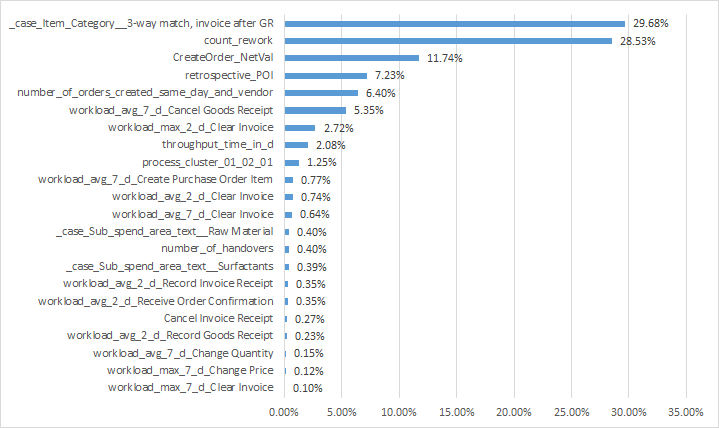
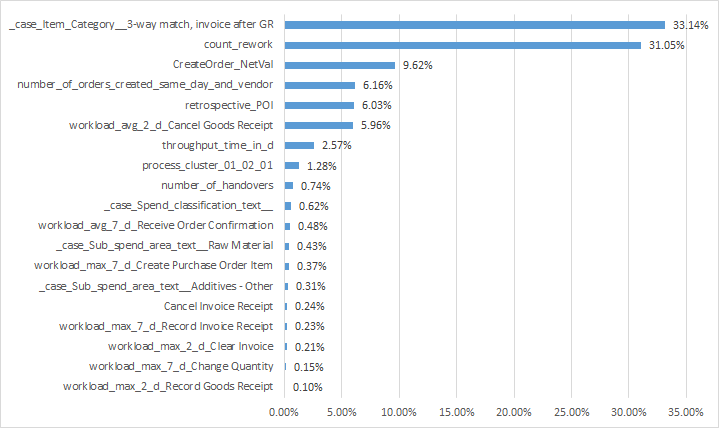
Decision Tree update

Changed region(s): [[0.0, 0.0304, 0.9791, 0.9416]]

diff --git a/Python/Predictive_Process_Mining/event_level_additional_dimensions.py b/Python/Predictive_Process_Mining/event_level_additional_dimensions.py
@@ -50,7 +50,7 @@ X_Categorical = X.filter(x_categorical_columns)
 
 # Switch the commenting in the next to lines to include additional compliance values or not
 #x_numerical_columns = ['resource_count_case','is_material_missing','event_retrospective_POI','rework_count',,'CreateOrder_NetVal']
-x_numerical_columns = ['is_material_missing','event_retrospective_POI','rework_count','CreateOrder_NetVal','user_count','sod_create_poi_and_gr','sod_create_poi_and_ir', 'throughput']
+x_numerical_columns = ['is_material_missing','material_count','event_retrospective_POI','rework_count','CreateOrder_NetVal','user_count','sod_create_poi_and_gr','sod_create_poi_and_ir', 'throughput_time_in_d', 'task_load_past_seven_days', 'task_load_past_two_days']
 
    # values still missing for event level dimensions 'material_count','sod_create_poi_and_gr','sod_create_poi_and_ir','CreateOrder_NetVal','retrospective_POI','throughput_time_in_d']
 X_Numerical = X.filter(x_numerical_columns)
@@ -134,7 +134,8 @@ Image(graph.create_png())
 
 
 df_feature_importances = pd.DataFrame({'feature_name': feature_names, 'importance': classifier.feature_importances_})
-    
+feature_value_more_than_0 = df_feature_importances[df_feature_importances['importance'] > 0.0009]
+feature_value_more_than_0.to_csv('event_feature_importances.csv')
 
 #Applying k-fold cross validation
 

diff --git a/Python/Predictive_Process_Mining/case_level_additonal_dimensions.py b/Python/Predictive_Process_Mining/case_level_additonal_dimensions.py
@@ -174,21 +174,6 @@ f1_score.mean()
 f1_score.std()
 
 
-#Applying Grid search to find best model and best parameters
-#balanced tree
-from sklearn.model_selection import GridSearchCV
-parameters = [{'criterion' : ["gini"]},
-              {'max_features': [None]},
-              {'max_depth': [None]}]
-
-grid_search = GridSearchCV(estimator = classifier,
-                           param_grid = parameters,
-                           scoring = 'precision',
-                           cv = 5,
-                           n_jobs = -1)
-grid_search = grid_search.fit(X_train, y_train)
-best_precision = grid_search.best_score_
-best_parameters = grid_search.best_params_
 
 
 

diff --git a/Python/Predictive_Process_Mining/Find_average_resource_workload.py b/Python/Predictive_Process_Mining/Find_average_resource_workload.py
@@ -42,7 +42,6 @@ case_workload['_case_concept_name_'] = case_workload.index
 case_workload.to_csv('case_aggregated_resource_workload.csv', index = False)
 
 # --------------- Event Level -----------------
-i =0
 
 event_avg_workload_2d = pd.DataFrame(columns = avg_2_d.columns)
 
